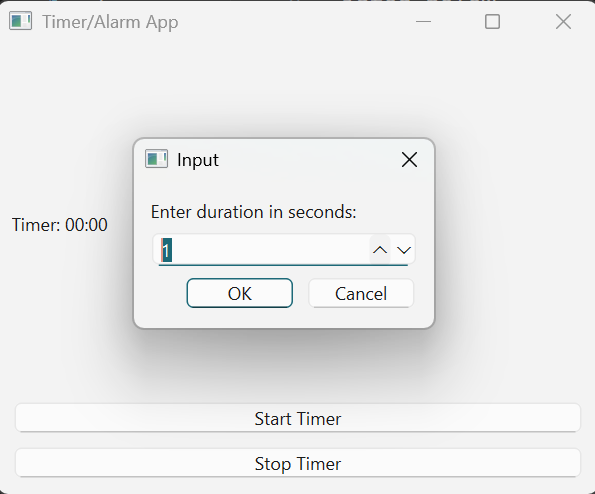
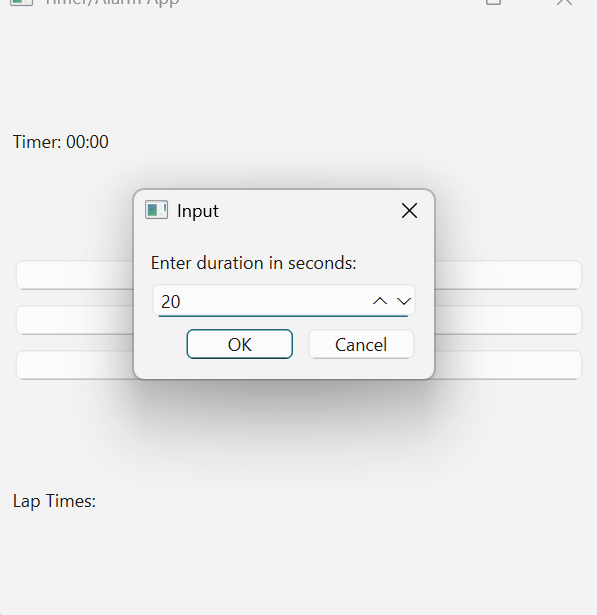
final 2

diff --git a/index.html b/index.html
@@ -116,12 +116,15 @@
                 <br>このアプリは、ユーザーが指定した時間にアラームを設定し、時間が来ると通知とメッセージを受け取ることができるシンプルなタイマー兼アラームアプリです。扱い方は非常にシンプルです。
                 <br>① アプリを起動し、時間を設定して「スタート」ボタンを押すだけでタイマーが開始されます。
                 <br>② 時間が経過すると、アラーム音が鳴るとともに、画面には「timer finished!」というメッセージが表示されます。
-                <br>③ さらに、タイマーを途中で停止することも可能です。
+                <br>③ タイマーを途中で停止することができます。
+                <br>④ タイマーが動作している間に「Record Lap Time」ボタンを押すことで、ラップタイムを記録することができます。
+                <br>⑤ 記録したラップタイムは、画面上に表示され、これまでのラップタイムを確認できます。
                 <br>制作時期:2025年2月 制作時間:12時間 <a href="https://github.com/yuta7979/timer_alarm_app?authuser=0" target="_blank">コードはこちらから</a>
                 <div class="project-images">
                     <img src="TimerApp1.png" alt="タイマーアプリ画像1" class="project-image">
                     <img src="TimerApp2.png" alt="タイマーアプリ画像2" class="project-image">
                     <img src="TimerApp3.png" alt="タイマーアプリ画像3" class="project-image">
+                    <img src="TimerApp4.png" alt="タイマーアプリ画像4" class="project-image">
                 </div></li>
                 <h3>Collective</h3>
                 <ul>
